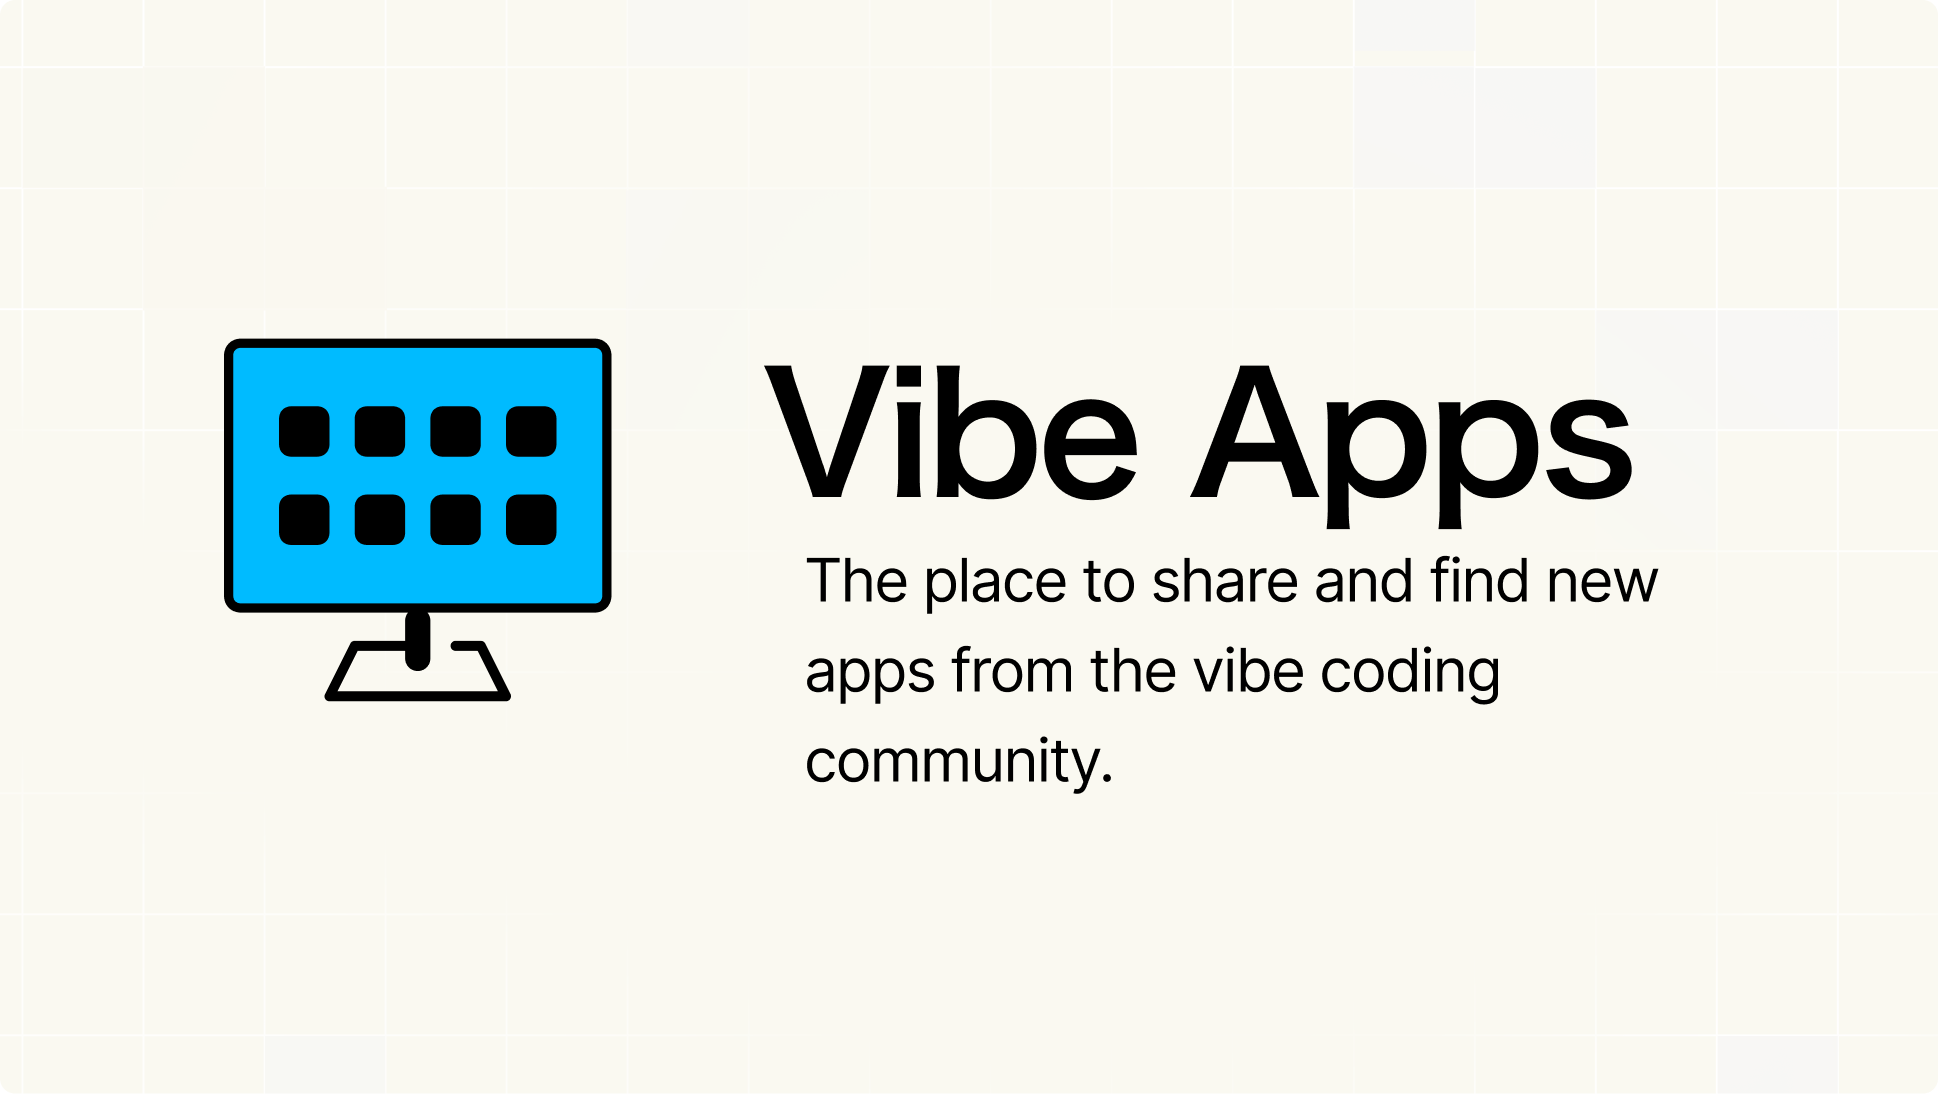
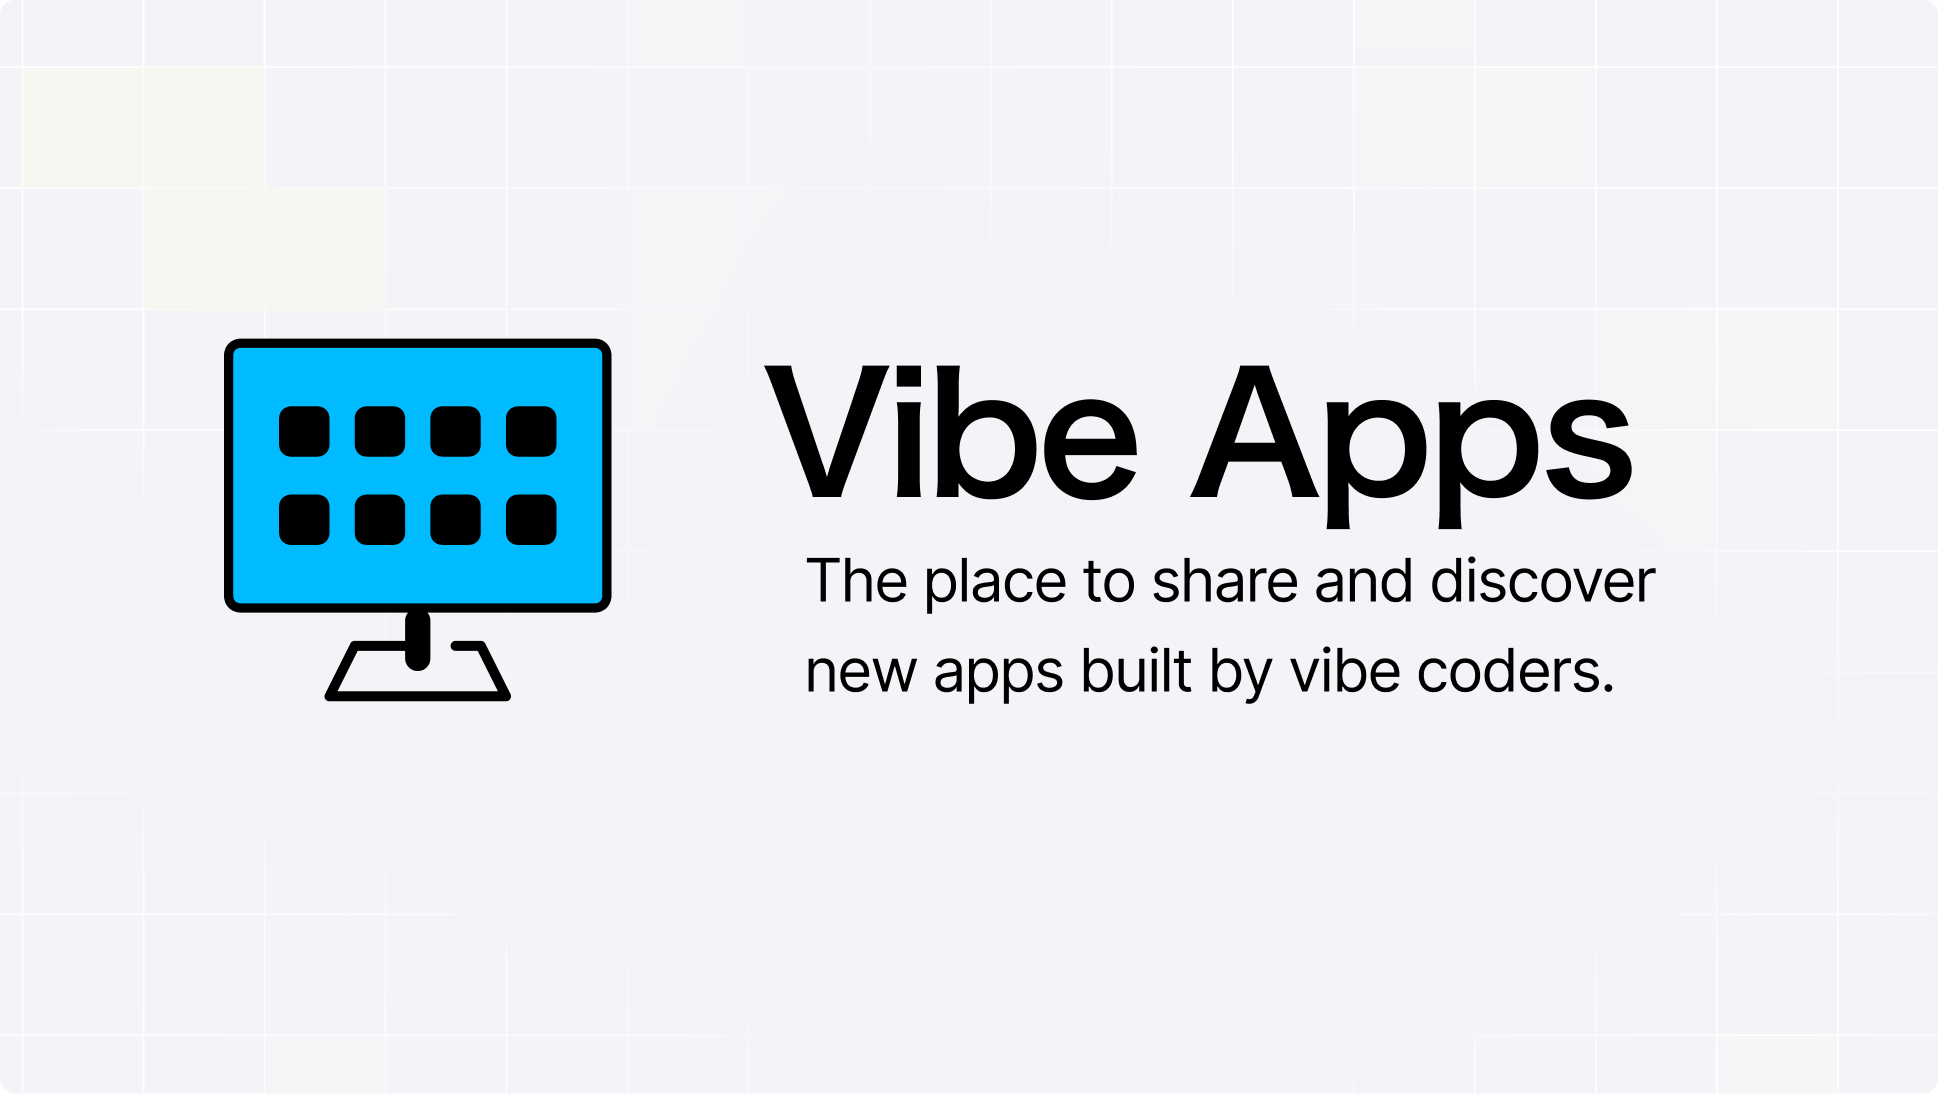
before @ username

Changed region(s): [[0.4025, 0.5905, 0.8359, 0.6527], [0.743, 0.4973, 0.8669, 0.5594], [0.4025, 0.6837, 0.5882, 0.7148]]

diff --git a/index.html b/index.html
@@ -4,7 +4,7 @@
     <meta charset="UTF-8" />
     <link rel="icon" type="image/svg+xml" href="/favicon.ico" />
     <meta name="viewport" content="width=device-width, initial-scale=1.0" />
-    <title>Vibe Apps – A place to share and find new apps from the vibe coding community.</title>
+    <title>Vibe Apps - The place to share and discover new apps built by vibe coders.</title>
     <!-- SEO Meta Tags -->
     <meta
       name="description"
@@ -17,7 +17,7 @@
     <meta property="og:title" content="Vibe Coding Apps" />
     <meta
       property="og:description"
-      content=" The place to share and discover new apps built by the vibe coding community." />
+      content=" The place to share and discover new apps built by vibe coders." />
     <meta property="og:image" content="/vibe-apps-open-graphi-image.png" />
     <!-- Replace with URL to a preview image -->
     <meta property="og:url" content="https://vibeapps.dev" />

diff --git a/TASK.MD b/TASK.MD
@@ -1,0 +1,32 @@
+# Feature Name Implementation
+
+Brief description of the feature and its purpose.
+
+## Completed Tasks
+
+- [x] updated bookmarks viewing
+- [x] changed site fonts
+
+## In Progress Tasks
+
+- [ ] change from /u/username to /@username in url slugs
+- [ ] update clerk admin role permissions in for mod view
+- [ ] setup resend for emails
+- [ ] Setup hosting on Vercel
+- [ ] Setup domain name on Vercel
+- [ ] Ask vibe coders for feedback and submissions
+- [ ] Share with team and launch
+
+## Future Tasks
+
+- [ ] update category links in vibe view sidebar
+- [ ] add follow profile features
+- [ ] add show 3 related products by tags below comments
+
+## Implementation Plan
+
+Detailed description of how the feature will be implemented.
+
+### Relevant Files
+
+- search [files.MD](files.MD)
